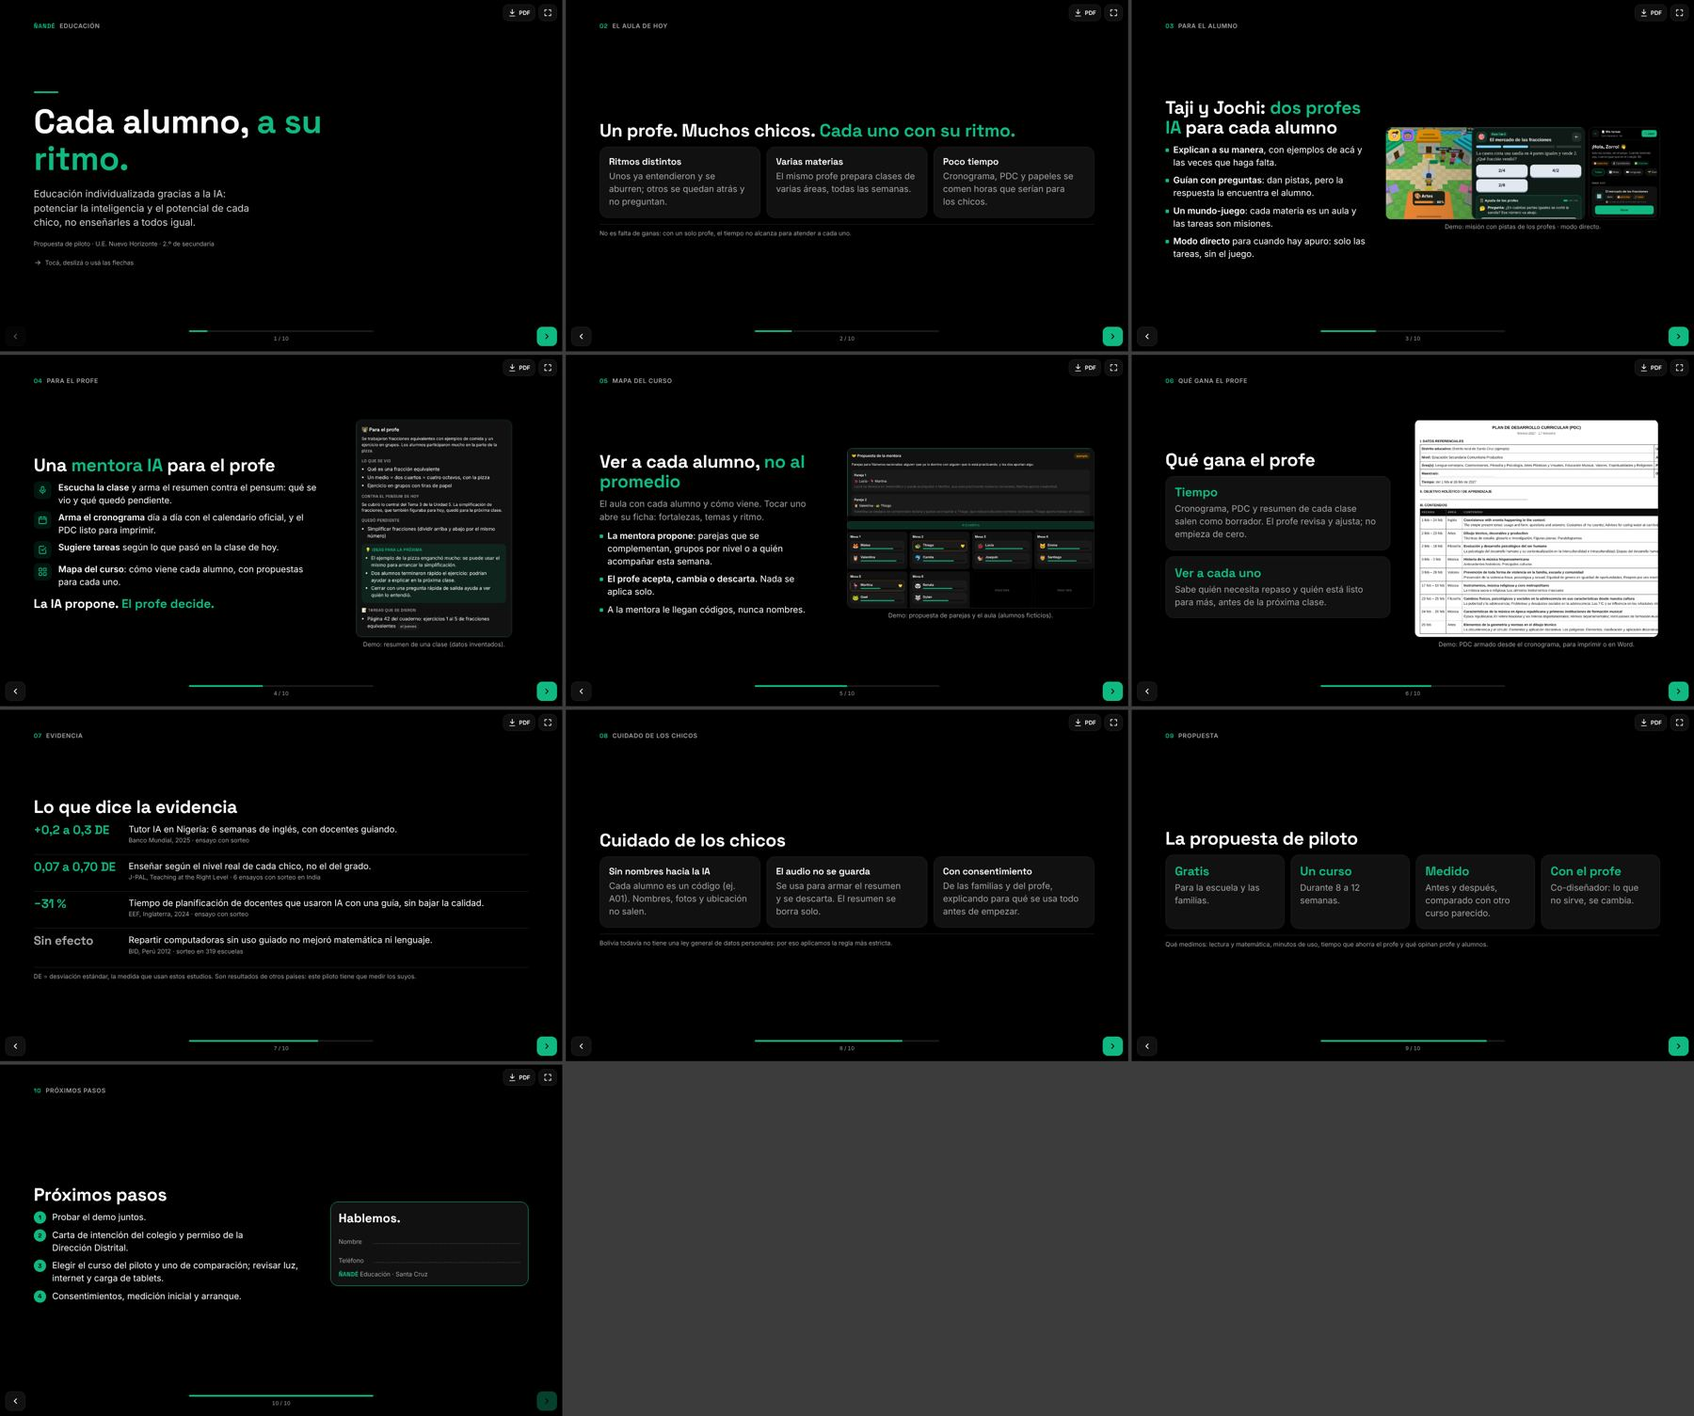
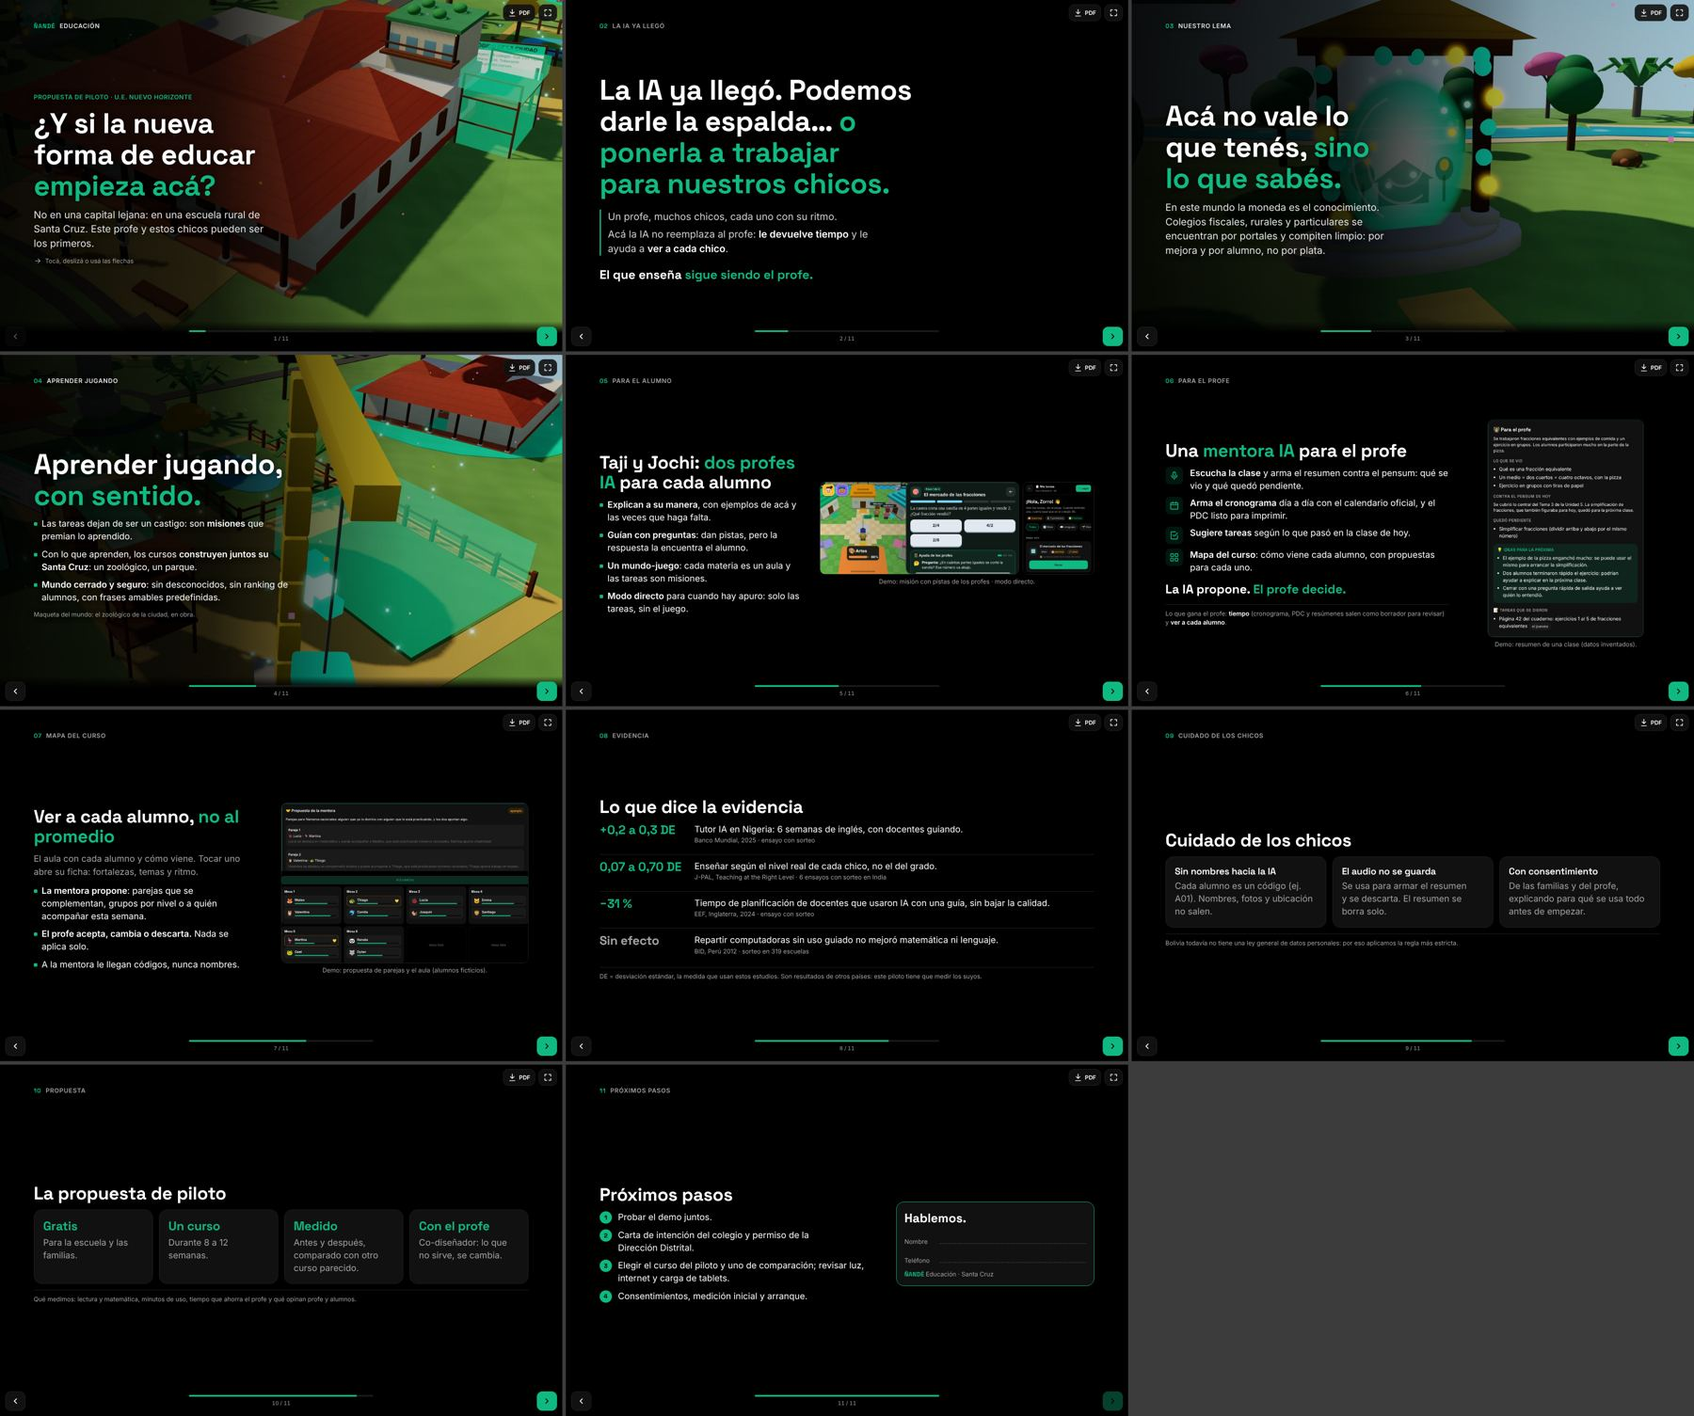
EDU.14b — Presentación con alma: apertura con propósito
Cuatro láminas nuevas al principio (pioneros desde Santa Cruz, la IA como
aliada, "acá no vale lo que tenés, sino lo que sabés", aprender jugando con
sentido) con imágenes del mundo. Lo práctico queda más corto: 11 láminas.
Nombres (marca y profes IA) en una sola lista; números de lámina automáticos.

Claude-Session: https://claude.ai/code/session_01Jdt98c2PQNpQHHMW92gX8n

diff --git a/educacion/presentacion/index.html b/educacion/presentacion/index.html
@@ -107,6 +107,28 @@ figcaption { font-size: var(--chico); color: var(--sec); text-align: center; }
 .pasos li::before { content: counter(p); font-family: 'Space Grotesk', sans-serif; font-weight: 700; color: #000; background: var(--verde);
   width: 26px; height: 26px; border-radius: 50%; display: grid; place-items: center; font-size: 14px; margin-top: 1px; }
 
+
+/* Apertura con imagen de fondo (EDU.14b) */
+.hero .fondo { position: absolute; inset: 0; width: 100%; height: 100%; object-fit: cover; object-position: var(--pos, 60% 50%); z-index: 0; }
+.hero::before { content: ''; position: absolute; inset: 0; z-index: 1; pointer-events: none;
+  background: linear-gradient(to top, rgba(0,0,0,.96) 0%, rgba(0,0,0,.86) 42%, rgba(0,0,0,.25) 72%, rgba(0,0,0,.45) 100%); }
+.hero > :not(.fondo) { position: relative; z-index: 2; }
+.hero .cuerpo { justify-content: flex-end; }
+.hero h1, .declaracion h1 { font-size: calc(var(--h1) * 1.05); max-width: 16ch; text-wrap: balance; }
+.hero p, .hero li, .hero h1 { text-shadow: 0 1px 14px rgba(0,0,0,.7); }
+.hero .marca { text-shadow: 0 1px 8px rgba(0,0,0,.9); color: #e5e5e5; }
+@media screen and (orientation: portrait) { .sin-vertical { display: none; } }
+.bajada { font-size: calc(var(--f) * 1.12); color: #e5e5e5; max-width: 40ch; }
+.antetitulo { font-size: var(--chico); color: var(--verde); font-weight: 600; letter-spacing: .04em; text-transform: uppercase; }
+.hero .lista { max-width: 46ch; }
+.declaracion .cuerpo { gap: calc(var(--gap) * 1.6); }
+.declaracion h1 { max-width: 22ch; }
+.lineas { display: flex; flex-direction: column; gap: 8px; font-size: calc(var(--f) * 1.12); color: #d4d4d4; max-width: 44ch; border-left: 3px solid var(--verde); padding-left: 16px; }
+.lineas b { color: var(--txt); font-weight: 600; }
+@media (orientation: landscape), print {
+  .hero::before { background: linear-gradient(90deg, rgba(0,0,0,.94) 0%, rgba(0,0,0,.82) 38%, rgba(0,0,0,.2) 72%, rgba(0,0,0,.05) 100%); }
+  .hero .cuerpo { justify-content: center; max-width: 60%; }
+}
 /* ── Controles ───────────────────────────── */
 .barra { position: fixed; left: 0; right: 0; bottom: 0; height: calc(var(--barra) + env(safe-area-inset-bottom));
   padding: 0 calc(12px + env(safe-area-inset-right)) env(safe-area-inset-bottom) calc(12px + env(safe-area-inset-left));
@@ -126,7 +148,7 @@ figcaption { font-size: var(--chico); color: var(--sec); text-align: center; }
 .acciones { position: fixed; top: calc(10px + env(safe-area-inset-top)); right: calc(12px + env(safe-area-inset-right)); display: flex; gap: 8px; z-index: 5; }
 .acciones .btn { height: 38px; min-width: 38px; padding: 0 10px; font-size: 13px; background: rgba(17,17,17,.9); }
 
-@media (orientation: portrait) and (max-height: 780px) { :root { --img-alto: 22vh; --gap: 9px; } }
+@media (orientation: portrait) and (max-height: 780px) { :root { --img-alto: 19vh; --gap: 9px; } }
 /* ── Celular horizontal (alto bajo) ─────── */
 @media (orientation: landscape) and (max-height: 520px) {
   :root { --f: 13.5px; --chico: 11.5px; --h1: 28px; --h2: 21px; --grande: 18px; --pad-x: 28px; --pad-y: 12px; --gap: 9px; --barra: 46px; --img-alto: calc(100vh - 120px); }
@@ -191,38 +213,61 @@ figcaption { font-size: var(--chico); color: var(--sec); text-align: center; }
 <body>
 <main class="deck" id="deck" aria-live="polite">
 
-  <!-- 1 · Portada -->
-  <section class="lam portada" aria-label="Lámina 1">
-    <div class="marca"><b>ÑANDÉ</b> Educación</div>
+  <!-- Soñar en grande desde acá -->
+  <section class="lam hero" style="--pos: 62% 55%">
+    <img class="fondo" src="img/mundo-colegio.jpg" alt="" width="1600" height="738">
+    <div class="marca"><b data-n="marca">ÑANDÉ</b> Educación</div>
     <div class="cuerpo">
-      <div class="raya"></div>
-      <h1>Cada alumno, <span class="verde">a su ritmo.</span></h1>
-      <p class="bajada">Educación individualizada gracias a la IA: potenciar la inteligencia y el potencial de cada chico, no enseñarles a todos igual.</p>
-      <p class="sec chico">Propuesta de piloto · U.E. Nuevo Horizonte · 2.º de secundaria</p>
+      <p class="antetitulo">Propuesta de piloto · U.E. Nuevo Horizonte</p>
+      <h1>¿Y si la nueva forma de educar <span class="verde">empieza acá?</span></h1>
+      <p class="bajada">No en una capital lejana: en una escuela rural de Santa Cruz. Este profe y estos chicos pueden ser los primeros.</p>
       <p class="pista"><svg viewBox="0 0 24 24" fill="none" stroke="currentColor" stroke-width="2" stroke-linecap="round" stroke-linejoin="round"><path d="M5 12h14M13 6l6 6-6 6"/></svg>Tocá, deslizá o usá las flechas</p>
     </div>
   </section>
 
-  <!-- 2 · El problema -->
-  <section class="lam" aria-label="Lámina 2">
-    <div class="marca"><b>02</b> El aula de hoy</div>
+  <!-- La IA como aliada -->
+  <section class="lam declaracion">
+    <div class="marca"><b class="n"></b> La IA ya llegó</div>
     <div class="cuerpo">
-      <h2>Un profe. Muchos chicos. <span class="verde">Cada uno con su ritmo.</span></h2>
-      <div class="tarjetas">
-        <div class="tarjeta"><h3>Ritmos distintos</h3><p class="sec">Unos ya entendieron y se aburren; otros se quedan atrás y no preguntan.</p></div>
-        <div class="tarjeta"><h3>Varias materias</h3><p class="sec">El mismo profe prepara clases de varias áreas, todas las semanas.</p></div>
-        <div class="tarjeta"><h3>Poco tiempo</h3><p class="sec">Cronograma, PDC y papeles se comen horas que serían para los chicos.</p></div>
+      <h1>La IA ya llegó. Podemos darle la espalda… <span class="verde">o ponerla a trabajar para nuestros chicos.</span></h1>
+      <div class="lineas">
+        <p>Un profe, muchos chicos, cada uno con su ritmo.</p>
+        <p>Acá la IA no reemplaza al profe: <b>le devuelve tiempo</b> y le ayuda a <b>ver a cada chico</b>.</p>
       </div>
-      <p class="nota">No es falta de ganas: con un solo profe, el tiempo no alcanza para atender a cada uno.</p>
+      <p class="frase">El que enseña <span>sigue siendo el profe.</span></p>
     </div>
   </section>
 
-  <!-- 3 · Para el alumno -->
-  <section class="lam" aria-label="Lámina 3">
-    <div class="marca"><b>03</b> Para el alumno</div>
+  <!-- Lo que sabés -->
+  <section class="lam hero" style="--pos: 50% 50%">
+    <img class="fondo" src="img/mundo-portal.jpg" alt="" width="1600" height="925">
+    <div class="marca"><b class="n"></b> Nuestro lema</div>
+    <div class="cuerpo">
+      <h1>Acá no vale lo que tenés, <span class="verde">sino lo que sabés.</span></h1>
+      <p class="bajada">En este mundo la moneda es el conocimiento. Colegios fiscales, rurales y particulares se encuentran por portales y compiten limpio: por mejora y por alumno, no por plata.</p>
+    </div>
+  </section>
+
+  <!-- Aprender jugando, con sentido -->
+  <section class="lam hero" style="--pos: 70% 50%">
+    <img class="fondo" src="img/mundo-zoologico.jpg" alt="" width="1600" height="963">
+    <div class="marca"><b class="n"></b> Aprender jugando</div>
+    <div class="cuerpo">
+      <h1>Aprender jugando, <span class="verde">con sentido.</span></h1>
+      <ul class="lista">
+        <li>Las tareas dejan de ser un castigo: son <b>misiones</b> que premian lo aprendido.</li>
+        <li>Con lo que aprenden, los cursos <b>construyen juntos su Santa Cruz</b>: un zoológico, un parque.</li>
+        <li><b>Mundo cerrado y seguro</b>: sin desconocidos, sin ranking de alumnos, con frases amables predefinidas.</li>
+      </ul>
+      <p class="chico sec">Maqueta del mundo: el zoológico de la ciudad, en obra.</p>
+    </div>
+  </section>
+
+  <section class="lam">
+    <div class="marca"><b class="n"></b> Para el alumno</div>
     <div class="cuerpo dos img-grande">
       <div class="texto">
-        <h2>Taji y Jochi: <span class="verde">dos profes IA</span> para cada alumno</h2>
+        <h2><span data-n="profe1">Taji</span> y <span data-n="profe2">Jochi</span>: <span class="verde">dos profes IA</span> para cada alumno</h2>
         <ul class="lista">
           <li><b>Explican a su manera</b>, con ejemplos de acá y las veces que haga falta.</li>
           <li><b>Guían con preguntas</b>: dan pistas, pero la respuesta la encuentra el alumno.</li>
@@ -234,9 +279,8 @@ figcaption { font-size: var(--chico); color: var(--sec); text-align: center; }
     </div>
   </section>
 
-  <!-- 4 · Para el profe: mentora -->
-  <section class="lam" aria-label="Lámina 4">
-    <div class="marca"><b>04</b> Para el profe</div>
+  <section class="lam">
+    <div class="marca"><b class="n"></b> Para el profe</div>
     <div class="cuerpo dos img-chica">
       <div class="texto">
         <h2>Una <span class="verde">mentora IA</span> para el profe</h2>
@@ -251,14 +295,14 @@ figcaption { font-size: var(--chico); color: var(--sec); text-align: center; }
             <p><b>Mapa del curso</b>: cómo viene cada alumno, con propuestas para cada uno.</p></div>
         </div>
         <p class="frase">La IA propone. <span>El profe decide.</span></p>
+        <p class="nota">Lo que gana el profe: <b style="color:var(--txt)">tiempo</b> (cronograma, PDC y resúmenes salen como borrador para revisar) y <b style="color:var(--txt)">ver a cada alumno</b>.</p>
       </div>
-      <figure><img src="img/profe-resumen.jpg" alt="Resumen de una clase armado por la mentora" width="492" height="686"><figcaption>Demo: resumen de una clase (datos inventados).</figcaption></figure>
+      <figure class="sin-vertical"><img src="img/profe-resumen.jpg" alt="Resumen de una clase armado por la mentora" width="492" height="686"><figcaption>Demo: resumen de una clase (datos inventados).</figcaption></figure>
     </div>
   </section>
 
-  <!-- 5 · Mapa del curso -->
-  <section class="lam" aria-label="Lámina 5">
-    <div class="marca"><b>05</b> Mapa del curso</div>
+  <section class="lam">
+    <div class="marca"><b class="n"></b> Mapa del curso</div>
     <div class="cuerpo dos">
       <div class="texto">
         <h2>Ver a cada alumno, <span class="verde">no al promedio</span></h2>
@@ -273,22 +317,8 @@ figcaption { font-size: var(--chico); color: var(--sec); text-align: center; }
     </div>
   </section>
 
-  <!-- 6 · Qué gana el profe -->
-  <section class="lam" aria-label="Lámina 6">
-    <div class="marca"><b>06</b> Qué gana el profe</div>
-    <div class="cuerpo dos">
-      <div class="texto">
-        <h2>Qué gana el profe</h2>
-        <div class="tarjeta"><span class="num">Tiempo</span><p class="sec">Cronograma, PDC y resumen de cada clase salen como borrador. El profe revisa y ajusta; no empieza de cero.</p></div>
-        <div class="tarjeta"><span class="num">Ver a cada uno</span><p class="sec">Sabe quién necesita repaso y quién está listo para más, antes de la próxima clase.</p></div>
-      </div>
-      <figure><img src="img/profe-pdc.jpg" alt="PDC armado desde el cronograma" width="994" height="889"><figcaption>Demo: PDC armado desde el cronograma, para imprimir o en Word.</figcaption></figure>
-    </div>
-  </section>
-
-  <!-- 7 · Evidencia -->
-  <section class="lam" aria-label="Lámina 7">
-    <div class="marca"><b>07</b> Evidencia</div>
+  <section class="lam">
+    <div class="marca"><b class="n"></b> Evidencia</div>
     <div class="cuerpo">
       <h2>Lo que dice la evidencia</h2>
       <div class="evid">
@@ -301,9 +331,8 @@ figcaption { font-size: var(--chico); color: var(--sec); text-align: center; }
     </div>
   </section>
 
-  <!-- 8 · Cuidado de los chicos -->
-  <section class="lam" aria-label="Lámina 8">
-    <div class="marca"><b>08</b> Cuidado de los chicos</div>
+  <section class="lam">
+    <div class="marca"><b class="n"></b> Cuidado de los chicos</div>
     <div class="cuerpo">
       <h2>Cuidado de los chicos</h2>
       <div class="tarjetas">
@@ -315,9 +344,8 @@ figcaption { font-size: var(--chico); color: var(--sec); text-align: center; }
     </div>
   </section>
 
-  <!-- 9 · Piloto -->
-  <section class="lam" aria-label="Lámina 9">
-    <div class="marca"><b>09</b> Propuesta</div>
+  <section class="lam">
+    <div class="marca"><b class="n"></b> Propuesta</div>
     <div class="cuerpo">
       <h2>La propuesta de piloto</h2>
       <div class="tarjetas t4">
@@ -330,9 +358,8 @@ figcaption { font-size: var(--chico); color: var(--sec); text-align: center; }
     </div>
   </section>
 
-  <!-- 10 · Próximos pasos -->
-  <section class="lam" aria-label="Lámina 10">
-    <div class="marca"><b>10</b> Próximos pasos</div>
+  <section class="lam">
+    <div class="marca"><b class="n"></b> Próximos pasos</div>
     <div class="cuerpo lado">
       <div class="texto" style="display:flex;flex-direction:column;gap:var(--gap)">
         <h2>Próximos pasos</h2>
@@ -347,7 +374,7 @@ figcaption { font-size: var(--chico); color: var(--sec); text-align: center; }
         <p class="frase">Hablemos.</p>
         <p class="campo"><span>Nombre</span><b id="c-nombre"></b></p>
         <p class="campo"><span>Teléfono</span><b id="c-tel"></b></p>
-        <p class="chico sec"><b class="verde" style="font-family:'Space Grotesk',sans-serif">ÑANDÉ</b> Educación · Santa Cruz</p>
+        <p class="chico sec"><b class="verde" style="font-family:'Space Grotesk',sans-serif" data-n="marca">ÑANDÉ</b> Educación · Santa Cruz</p>
       </div>
     </div>
   </section>
@@ -360,13 +387,19 @@ figcaption { font-size: var(--chico); color: var(--sec); text-align: center; }
 </div>
 <nav class="barra" aria-label="Navegación de láminas">
   <button class="btn" id="b-ant" type="button" aria-label="Lámina anterior"><svg viewBox="0 0 24 24" fill="none" stroke="currentColor" stroke-width="2.4" stroke-linecap="round" stroke-linejoin="round"><path d="M15 6l-6 6 6 6"/></svg></button>
-  <div class="progreso"><div class="riel"><i id="riel"></i></div><small id="cont">1 / 10</small></div>
+  <div class="progreso"><div class="riel"><i id="riel"></i></div><small id="cont"></small></div>
   <button class="btn primario" id="b-sig" type="button" aria-label="Lámina siguiente"><svg viewBox="0 0 24 24" fill="none" stroke="currentColor" stroke-width="2.4" stroke-linecap="round" stroke-linejoin="round"><path d="M9 6l6 6-6 6"/></svg></button>
 </nav>
 
 <script>
 (() => {
+  // Nombres en un solo lugar: si cambian la marca o los profes IA, se cambia acá.
+  const NOMBRES = { marca: 'ÑANDÉ', profe1: 'Taji', profe2: 'Jochi' };
+  document.querySelectorAll('[data-n]').forEach((el) => { if (NOMBRES[el.dataset.n]) el.textContent = NOMBRES[el.dataset.n]; });
+  document.title = NOMBRES.marca + ' Educación · Presentación';
+
   const lams = [...document.querySelectorAll('.lam')];
+  lams.forEach((l, k) => { l.setAttribute('aria-label', 'Lámina ' + (k + 1)); const n = l.querySelector('.marca .n'); if (n) n.textContent = String(k + 1).padStart(2, '0'); });
   const N = lams.length;
   const $ = (id) => document.getElementById(id);
   let i = 0;

diff --git a/docs/sesiones/EDU.14-presentacion.md b/docs/sesiones/EDU.14-presentacion.md
@@ -51,3 +51,40 @@ ni debajo de los botones. PDF de 10 páginas. Capturas en `docs/sesiones/captura
 - `img/alumno-tareas.jpg` sale de la rama `sesion/pantalla-edu-06d` (modo directo) y `img/profe-mapa.jpg`
   de `sesion/canal-edu-04f` (mapa del curso). Si esas pantallas cambian antes de mergear, rehacer las capturas.
 - La foto del juego es una captura guardada (EDU.02c); el demo en vivo usa 4.º de primaria de ejemplo.
+
+---
+
+# EDU.14b — Presentación con alma (11-nov-2026)
+
+Pedido del dueño: "es muy técnica, le falta alma". Se agrega una **apertura con propósito** y se
+acorta lo práctico. Rama `sesion/pantalla-edu-14b`.
+
+## Nuevo orden (11 láminas)
+
+1. **¿Y si la nueva forma de educar empieza acá?** — escuela rural de Santa Cruz, el profe y los chicos como pioneros. Foto: el colegio (evolución Promo).
+2. **La IA ya llegó** — darle la espalda o ponerla a trabajar para nuestros chicos; no reemplaza al profe, le devuelve tiempo y le ayuda a ver a cada chico.
+3. **"Acá no vale lo que tenés, sino lo que sabés."** — la moneda es el conocimiento; fiscales, rurales y particulares por portales; compiten por mejora y por alumno. Foto: portal.
+4. **Aprender jugando, con sentido** — tareas → misiones; los cursos construyen su Santa Cruz (zoológico); mundo cerrado, sin ranking de alumnos, frases predefinidas. Foto: zoológico en obra.
+5. Para el alumno (profes IA + modo directo) · 6. Mentora del profe (incluye "lo que gana el profe") ·
+7. Mapa del curso · 8. Evidencia · 9. Cuidado de los chicos · 10. Piloto · 11. Próximos pasos y contacto.
+
+Salieron "El aula de hoy" (quedó dentro de la 2) y "Qué gana el profe" (dentro de la 6).
+
+## Nombres en un solo lugar
+
+Al principio del `<script>` de `educacion/presentacion/index.html`:
+`const NOMBRES = { marca: 'ÑANDÉ', profe1: 'Taji', profe2: 'Jochi' };` — cambia la marca, el título
+de la pestaña y los nombres de los profes. Los números de lámina se calculan solos.
+Ojo: la captura del resumen de clase (`img/profe-resumen.jpg`) muestra "Taji y Jochi" dentro de la
+imagen; si cambian los nombres, rehacer esa captura.
+
+## Imágenes
+
+`img/mundo-colegio.jpg`, `img/mundo-portal.jpg`, `img/mundo-zoologico.jpg` salen de
+`educacion/estilos/capturas/PROMO-*-horizontal.jpg`, recortadas para sacar los carteles de texto.
+`img/profe-pdc.jpg` quedó sin usar (era de la lámina "Qué gana el profe"); se puede borrar con OK del dueño.
+
+## Probado
+
+Playwright en 390×844, 844×390, 1280×800, 360×740 y 1920×1080: sin desbordes. En celular vertical
+la imagen de la lámina 6 se oculta (no entraba). PDF de 11 páginas.

diff --git a/docs/plan-maestro.md b/docs/plan-maestro.md
@@ -67,7 +67,8 @@ que es el módulo más avanzado; después el Núcleo ciudadano, que lo necesitan
 | EDU.11 | Sin internet + cifrado | Offline, sincronización y datos locales cifrados | EDU.06, 08 | ⏳ |
 | EDU.12 | Prueba Alfa familiar | Prueba con los hijos, ajustes, guion de la demo para la presentación | EDU.04–11 | ⏳ |
 | EDU.13 | Limpieza | Archivar `rubikeduai-backend` (PR aparte, con OK del dueño) | EDU.12 | ⏳ |
-| EDU.14 | Presentación del proyecto | 10 láminas para el profe del piloto (celular, PC, proyector, PDF), en `/presentacion/` del sitio de Educación | EDU.04b | 🔎 PR abierto, canal `pantalla-edu-14` |
+| EDU.14 | Presentación del proyecto | 10 láminas para el profe del piloto (celular, PC, proyector, PDF), en `/presentacion/` del sitio de Educación | EDU.04b | ✅ En `main` (PR #32) |
+| EDU.14b | Presentación con alma | Apertura con propósito (4 láminas: pioneros, IA aliada, "lo que sabés", aprender jugando) + lo práctico más corto; 11 láminas | EDU.14 | 🔎 PR abierto, canal `pantalla-edu-14b` |
 | NUC.01 | Núcleo ciudadano | Login, perfil, plan de suscripción, billetera de créditos, Hub con diseño ÑANDÉ | INF.01 | ⏳ |
 | TRA.01 | Transporte | Del prototipo a MVP: pedir viaje, conductor, pago con créditos | NUC.01 | ⏳ |
 | MKT.01 | eMarket | Catálogo de comercios, pedidos, suscripción comercial | NUC.01 | ⏳ |
